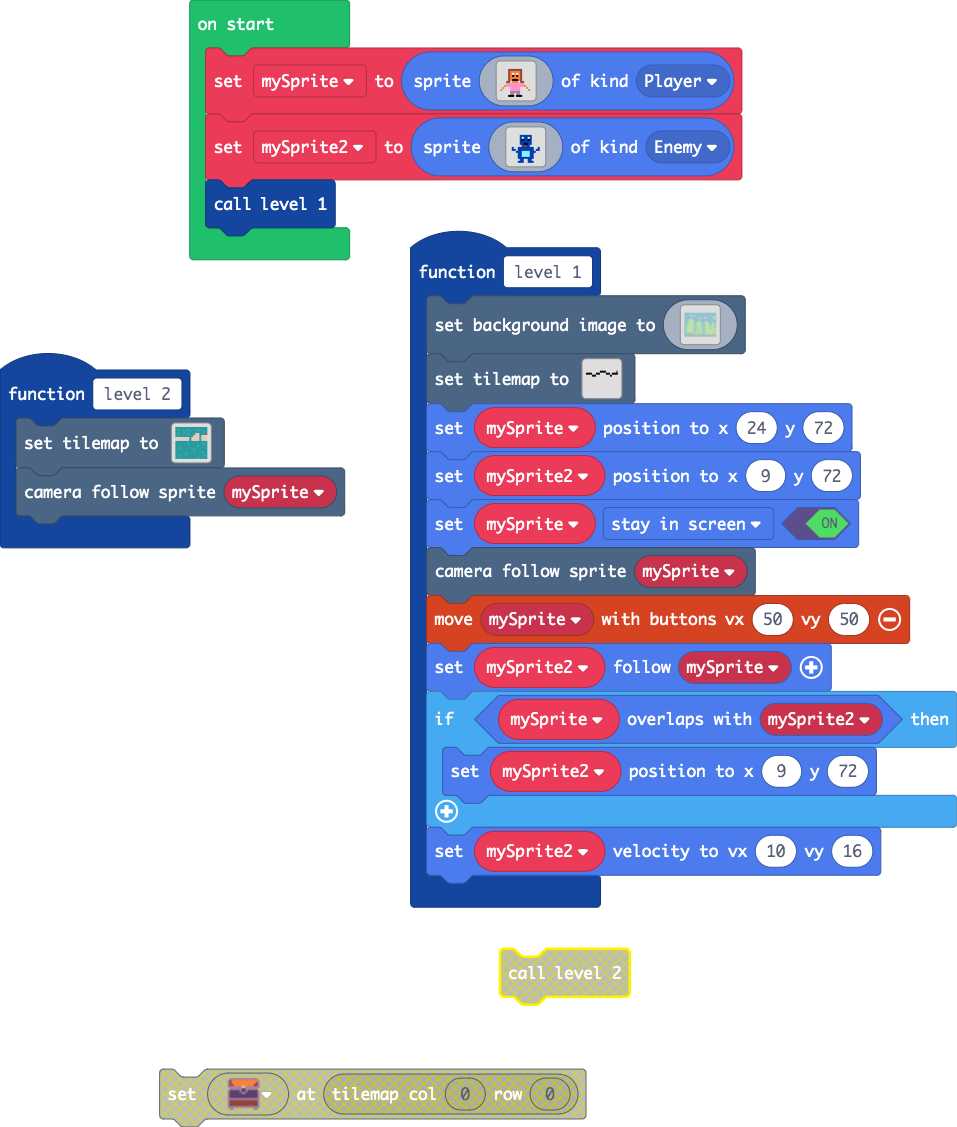
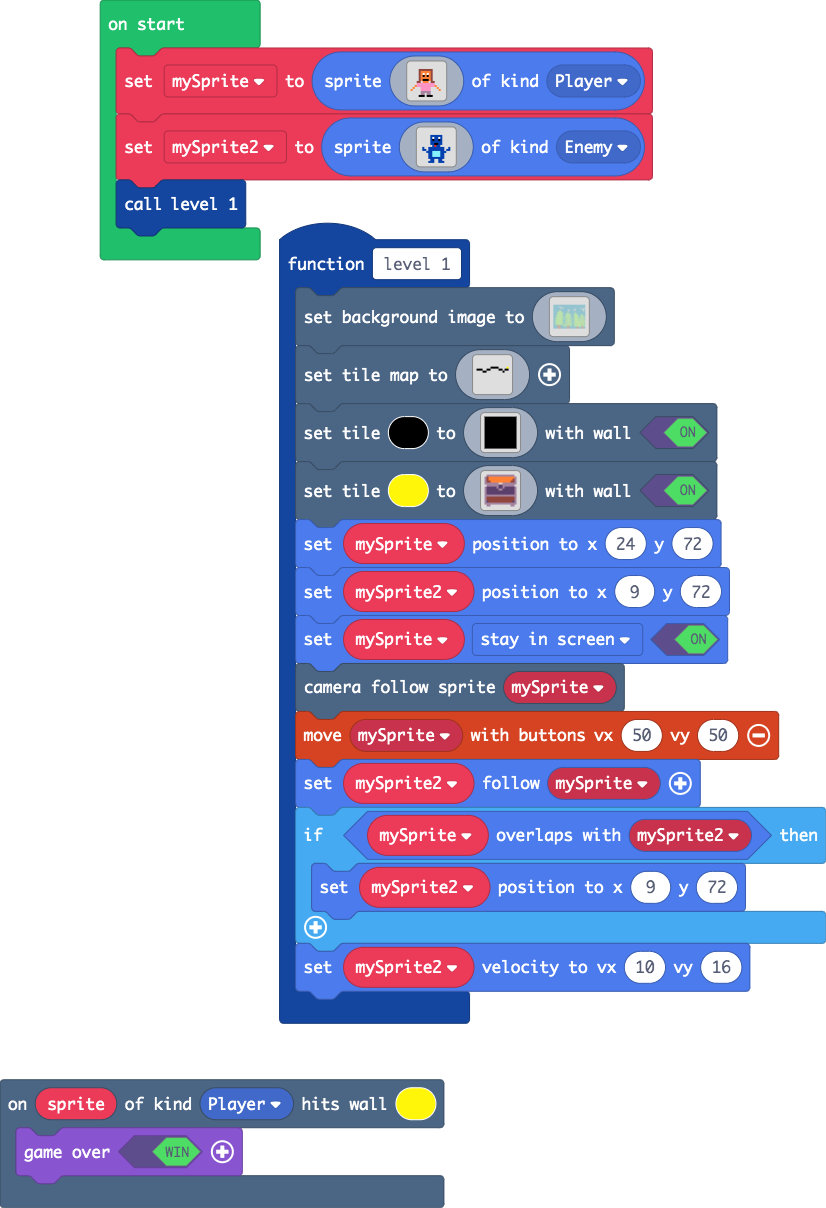
Update pxt.json, main.blocks, main.ts

diff --git a/main.ts b/main.ts
@@ -19,32 +19,6 @@ namespace myTiles {
 . . . . . . . . . . . . . . . . 
 `
 }
-function level_2 () {
-    tiles.setTilemap(tiles.createTilemap(
-            hex`1000100001010101010101010101010101010101010201010101020101010102010101010101010102010101010101010101020101020101010102010101030301010104010101010101010101030303010303030303030303030301030303030203030303030303030303010303030301030303010101010101010101010101010101010101010101010201010101010101020101010101010101010101010201010101010102010101010101010101010101010101010101010101010201010101010101010101010101010101010101020101010101010102010101010101010101010101020101010101010101010101020101010101010101010101010201010101`,
-            img`
-. . . . . . . . . . . . . . . . 
-. . . . . . . . . . . . . . . . 
-. . . . . . . . . . . . . . . . 
-. . . . . . . . . . 2 2 . . . . 
-. . . . . . . . . 2 2 . . 2 2 2 
-2 2 2 2 2 2 2 . 2 2 . . . 2 . . 
-. . . . . . . . . . . . . 2 . . 
-. . . . . . . . . . . . . . . . 
-. . . . . . . . . . . . . . . . 
-. . . . . . . . . . . . . . . . 
-. . . . . . . . . . . . . . . . 
-. . . . . . . . . . . . . . . . 
-. . . . . . . . . . . . . . . . 
-. . . . . . . . . . . . . . . . 
-. . . . . . . . . . . . . . . . 
-. . . . . . . . . . . . . . . . 
-`,
-            [myTiles.tile0,sprites.castle.tileDarkGrass3,sprites.castle.tileDarkGrass2,sprites.castle.tilePath5,sprites.dungeon.chestOpen,sprites.dungeon.collectibleInsignia],
-            TileScale.Sixteen
-        ))
-    scene.cameraFollowSprite(mySprite)
-}
 function level_1 () {
     scene.setBackgroundImage(img`
 6 6 6 6 6 6 6 6 6 6 6 6 6 6 6 6 6 6 6 6 6 6 6 6 6 6 6 6 6 6 6 6 6 6 6 6 6 6 6 6 6 6 6 6 6 6 6 6 6 6 6 6 6 6 6 6 6 6 6 6 6 6 6 6 6 6 6 6 6 6 6 6 6 6 6 6 6 6 6 6 6 6 6 6 6 6 6 6 6 6 6 6 6 6 6 6 6 6 6 6 6 6 6 6 6 6 6 6 6 6 6 6 6 6 6 6 6 6 6 6 6 6 6 6 6 6 6 6 6 6 6 6 6 6 6 6 6 6 6 6 6 6 6 6 6 6 6 6 6 6 6 6 6 6 6 6 6 6 6 6 
@@ -168,16 +142,14 @@ function level_1 () {
 6 6 6 6 6 6 6 6 6 6 6 6 6 6 6 6 6 6 6 6 6 6 6 e e e e e e e e e e e e e e 6 6 6 6 6 6 6 6 6 6 6 6 6 6 6 6 6 6 6 6 6 6 6 6 6 6 6 6 6 6 6 e e e e 4 4 4 e e e e 6 6 6 6 6 6 6 6 6 6 6 6 6 6 6 6 6 6 6 6 6 6 6 6 6 6 6 6 6 6 6 6 6 6 6 6 6 e e e e 4 4 4 e e 6 6 6 6 6 6 6 6 6 6 6 6 6 6 6 6 6 e e 4 4 4 4 4 4 e 6 6 6 6 6 6 6 6 6 
 6 6 6 6 6 6 6 6 6 6 6 6 6 6 6 6 6 6 6 6 6 6 6 e e e e e e e e e e e e e e 6 6 6 6 6 6 6 6 6 6 6 6 6 6 6 6 6 6 6 6 6 6 6 6 6 6 6 6 6 6 6 6 6 e e e e e e e e e 6 6 6 6 6 6 6 6 6 6 6 6 6 6 6 6 6 6 6 6 6 6 6 6 6 6 6 6 6 6 6 6 6 6 6 6 6 e e e e e e e e e 6 6 6 6 6 6 6 6 6 6 6 6 6 6 6 6 6 e e e e e e e e e 6 6 6 6 6 6 6 6 6 
 `)
-    tiles.setTilemap(tiles.createTilemap(
-            hex`1000100000000000000000000000000000000000000000000000000000000000000000000000000000000000000000000000000000000000000000000000000000000000000000000000000101010000000000030101010000010100000001010001010100000001010000000000000001000000000000000000000000000000000000000000000000000000000000000000000000000000000000000000000000000000000000000000000000000000000000000000000000000000000000000000000000000000000000000000000000000000000000000000000000000000000000000000000000000000000000000000000000000000000000000000000000000000`,
-            img`
+    scene.setTileMap(img`
 . . . . . . . . . . . . . . . . 
-. . . . 2 2 2 2 2 2 2 . . . . . 
-. . . . 2 . . . . . 2 2 2 2 2 2 
-2 2 2 2 2 . . . . . . . . . . . 
-. . . . . . . 2 2 2 . . . . . . 
-2 2 2 . . 2 2 . . . 2 2 . 2 2 2 
-. . . 2 2 . . . . . . . 2 . . . 
+. . . . . . . . . . . . . . . . 
+. . . . . . . . . . . . . . . . 
+. . . . . . . . . . . . . . . . 
+. . . . . . . f f f f . . . . 5 
+f f f . . f f . . . . f f . f f 
+. . . f f . . . . . . . . f . . 
 . . . . . . . . . . . . . . . . 
 . . . . . . . . . . . . . . . . 
 . . . . . . . . . . . . . . . . 
@@ -187,10 +159,43 @@ function level_1 () {
 . . . . . . . . . . . . . . . . 
 . . . . . . . . . . . . . . . . 
 . . . . . . . . . . . . . . . . 
-`,
-            [myTiles.tile0,sprites.builtin.forestTiles18,sprites.dungeon.chestClosed,sprites.dungeon.chestOpen],
-            TileScale.Sixteen
-        ))
+`)
+    scene.setTile(15, img`
+f f f f f f f f f f f f f f f f 
+f f f f f f f f f f f f f f f f 
+f f f f f f f f f f f f f f f f 
+f f f f f f f f f f f f f f f f 
+f f f f f f f f f f f f f f f f 
+f f f f f f f f f f f f f f f f 
+f f f f f f f f f f f f f f f f 
+f f f f f f f f f f f f f f f f 
+f f f f f f f f f f f f f f f f 
+f f f f f f f f f f f f f f f f 
+f f f f f f f f f f f f f f f f 
+f f f f f f f f f f f f f f f f 
+f f f f f f f f f f f f f f f f 
+f f f f f f f f f f f f f f f f 
+f f f f f f f f f f f f f f f f 
+f f f f f f f f f f f f f f f f 
+`, true)
+    scene.setTile(5, img`
+. b b b b b b b b b b b b b b . 
+b e 4 4 4 4 4 4 4 4 4 4 4 4 4 b 
+b e 4 4 4 4 4 4 4 4 4 4 4 4 e b 
+b e e 4 4 4 4 4 4 4 4 4 4 e e b 
+b b b b b b b d d b b b b b b b 
+. b b b b b b c c b b b b b b . 
+b c c c c c b c c b c c c c c b 
+b c c c c c c b b c c c c c c b 
+b c c c c c c c c c c c c c c b 
+b c c c c c c c c c c c c c c b 
+b b b b b b b b b b b b b b b b 
+b e e e e e e e e e e e e e e b 
+b e e e e e e e e e e e e e e b 
+b c e e e e e e e e e e e e c b 
+b b b b b b b b b b b b b b b b 
+. b b . . . . . . . . . . b b . 
+`, true)
     mySprite.setPosition(24, 72)
     mySprite2.setPosition(9, 72)
     mySprite.setFlag(SpriteFlag.StayInScreen, true)
@@ -202,6 +207,9 @@ function level_1 () {
     }
     mySprite2.setVelocity(10, 16)
 }
+scene.onHitTile(SpriteKind.Player, 5, function (sprite) {
+    game.over(true)
+})
 let mySprite2: Sprite = null
 let mySprite: Sprite = null
 mySprite = sprites.create(img`
